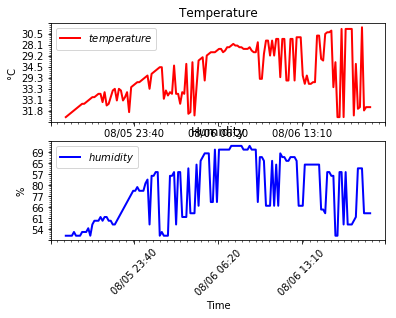
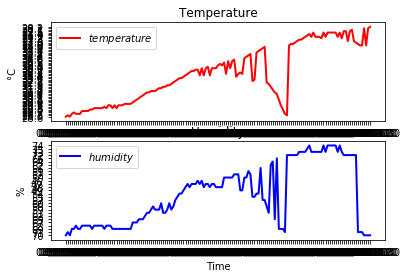
update

Changed region(s): [[0.0, 0.0288, 1.0, 0.9784]]

diff --git a/第六週的工作週誌.md b/第六週的工作週誌.md
@@ -50,13 +50,6 @@ plt.ylabel("°C") # ALT+0176 = °
 plt.title("Temperature")
 plt.legend()
 
-##圖形優化
-ax = plt.gca() # 獲取圖的座標信息
-
-ax.xaxis.set_major_locator(ticker.LinearLocator(5))
-ax.xaxis.set_minor_locator(ticker.LinearLocator(50))
-ax.yaxis.set_major_locator(ticker.LinearLocator(10))
-ax.yaxis.set_minor_locator(ticker.LinearLocator(50))
 
 ##濕度
 plt.subplot(212) #plt.subplot(2,1,2) or plt.subplot(211) 表示將整個圖像窗口分為2行1列, 當前位置為2
@@ -65,13 +58,6 @@ plt.xlabel("Time")
 plt.ylabel("%")
 plt.title("Humidity")
 plt.legend()
-
-ax = plt.gca()
-
-ax.xaxis.set_major_locator(ticker.LinearLocator(5))
-ax.xaxis.set_minor_locator(ticker.LinearLocator(50))
-ax.yaxis.set_major_locator(ticker.LinearLocator(10))
-ax.yaxis.set_minor_locator(ticker.LinearLocator(50))
 
 
 plt.show()
@@ -83,7 +69,7 @@ plt.show()
 
 # 2018/8/8
 
-畫流程圖+程式擴充清單
+
 
 # 2018/8/9
 
@@ -120,12 +106,15 @@ easy_install django
 ```
 pip install Django
 ```
-## 創建第一個項目
+
+## 創建項目
+
+### 建立專案資料夾 -- startproject
 
 使用 django-admin.py 來創建項目
 
 ```
-django-admin.py startproject mysite # HelloWorld為自訂資料夾名稱，可依照自己喜好修改
+django-admin.py startproject mysite # mysite 為自訂資料夾名稱，可依照自己喜好修改
 ```
 最新版 Django 請使用 django-admin 命令
 
@@ -136,7 +125,7 @@ django-admin startproject mysite
 創建完成後，可以查看項目的目錄結構
 
 ```
-cd mysite
+cd mysite # 切換進 mysite 資料夾
 tree
 
 .
@@ -177,41 +166,11 @@ python manage.py -h
 
 ```
 ~/testdj$ python manage.py runserver -h # $後才是要輸入的指令
-usage: manage.py runserver [-h] [--version] [-v {0,1,2,3}]
-                           [--settings SETTINGS] [--pythonpath PYTHONPATH]
-                           [--traceback] [--no-color] [--ipv6] [--nothreading]
-                           [--noreload] [--nostatic] [--insecure]
-                           [addrport]
-
-Starts a lightweight Web server for development and also serves static files.
-
-positional arguments:
-  addrport              Optional port number, or ipaddr:port
-
-optional arguments:
-  -h, --help            show this help message and exit
-  --version             show program's version number and exit
-  -v {0,1,2,3}, --verbosity {0,1,2,3}
-                        Verbosity level; 0=minimal output, 1=normal output,
-                        2=verbose output, 3=very verbose output
-  --settings SETTINGS   The Python path to a settings module, e.g.
-                        "myproject.settings.main". If this isn't provided, the
-                        DJANGO_SETTINGS_MODULE environment variable will be
-                        used.
-  --pythonpath PYTHONPATH
-                        A directory to add to the Python path, e.g.
-                        "/home/djangoprojects/myproject".
-  --traceback           Raise on CommandError exceptions
-  --no-color            Don't colorize the command output.
-  --ipv6, -6            Tells Django to use an IPv6 address.
-  --nothreading         Tells Django to NOT use threading.
-  --noreload            Tells Django to NOT use the auto-reloader.
-  --nostatic            Tells Django to NOT automatically serve static files
-                        at STATIC_URL.
-  --insecure            Allows serving static files even if DEBUG is False.
 ```
 
-#### 啟動開發伺服器 -- runserver
+就會跑出相關資訊
+
+### 啟動開發伺服器 -- runserver
 
 從說明中可以知道，`runserver` 會啟動一個簡單的 web server，方便於在開發階段使用：
 
@@ -228,6 +187,105 @@ Quit the server with CONTROL-C.
 
 現在打開瀏覽器輸入 http://127.0.0.1:8000/ 或是 http://localhost:8000/，會看到你的 django 專案已成功在 web server 上執行
 
-![success]()
+![success](https://raw.githubusercontent.com/a010891000/test/master/image/Django/success.png)
 
-可能遇到的問題
+
+### 建立 Django application（app）
+
+請確定現在處於 manage.py 所在的目錄下(~/mysite$)，然後運行這行命令來創建一個應用：
+
+```
+python manage.py startapp polls
+```
+
+這將會創建一個 polls 目錄，它的目錄結構大致如下：
+
+```
+polls
+├── admin.py
+├── apps.py
+├── __init__.py
+├── migrations
+│   └── __init__.py
+├── models.py
+├── tests.py
+└── views.py
+```
+
+##  編寫第一個視圖(檢視表)
+
+開始編寫第一個視圖，打開 `polls/view.py` 輸入以下代碼：
+
+```
+from django.http import HttpResponse
+
+def index(request):
+    return HttpResponse("Hello, world. You're at the polls index.")
+```
+
+如果想在網頁上看見效果，我們需要將一個 URL 映射到它——這就是我們需要URLconf 的原因了。
+
+為了創建 URLconf ，請在 polls 目錄里新建一個 `urls.py` 文件。
+
+```
+$前不需要打
+
+: cd mysite #切換進 mysite 資料夾
+:~/mysite$ cd polls #切換進 mysite 資料夾底下 polls 的資料夾
+:~/mysite/polls$ > urls.py 新建 urls.py 在 polls資料夾底下
+:~/mysite/polls$ tree
+```
+
+新增完 `urls.py`文件後，你的應用目錄現在看起來應該是這樣：
+
+```
+.
+├── admin.py
+├── apps.py
+├── __init__.py
+├── migrations
+│   └── __init__.py
+├── models.py
+├── tests.py
+├── urls.py
+└── views.py
+
+```
+
+在 `polls/urls.py` 中，輸入如下代碼：
+
+```
+#polls/urls.py
+from  django.urls  import  path
+
+from  .  import  views
+
+urlpatterns  =  [ 
+    path ( '' ,  views . index ,  name = 'index' ), 
+]
+```
+
+下一步是要在根URLconf文件中指定我們創建的 polls.urls 模塊。在`mysite/urls.py` 文件的 urlpatterns 列表裡插入一個 `include()` ，如下：
+
+```
+mysite/urls.py
+from  django.contrib  import  admin 
+from  django.urls  import  include ,  path
+
+urlpatterns  =  [ 
+    path ( 'polls/' ,  include ( 'polls.urls' )), 
+    path ( 'admin/' ,  admin . site . urls ), 
+]
+```
+
+函數 `include()` 允許引用其它 URLconfs 。每當 Django 遇到: func：~django.urls.include 時，它會截斷與此項匹配的 URL 的部分，並將剩餘的字符串發送到URLconf以供進一步處理。
+
+<br>
+
+你現在把 `index` 視圖添加進了 URLconf 。可以驗證是否正常工作，運行下面的命令:
+
+```
+python manage.py runserver
+```
+
+用你的瀏覽器訪問 http://localhost:8000/polls/ ，你應該能夠看見 `" Hello, world. You're at the polls index. "` ，這是你在index視圖中定義的。
